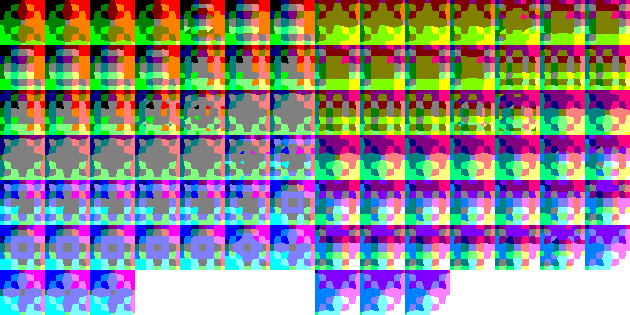
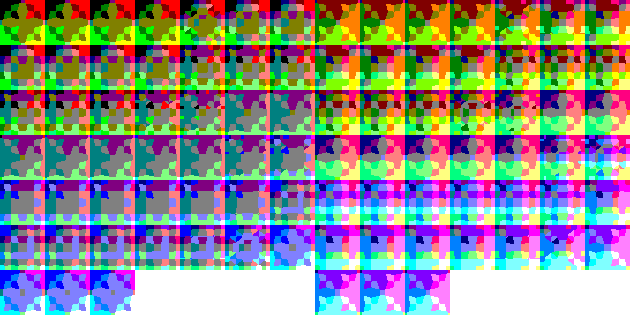
3x3x3: use darker colors - namely, my terminal colors.

diff --git a/internal/palette/data.go b/internal/palette/data.go
@@ -930,24 +930,24 @@ var data = map[string]*Palette{
 	// Dither everywhere.
 	"2x2x2": newPalette([]int{0, 9, 10, 11, 12, 13, 14, 15}, colorCube(2, 2, 2)),
 
-	// 3x3x3 color cube, preferring brighter colors.
+	// 3x3x3 color cube, almost a superset of div0.
 	// Almost no dither.
 	// Lacks light grey as only color.
 	"3x3x3": newPalette([]int{0, 1, 2, 3, 4, 5, 6, 8, 9, 10, 11, 12, 13, 14, 15}, append([]uint32{
 		0x000000,
 		0x0000FF,
 		0x00FF00,
-		0x00FFFF,
+		0x008080,
 		0xFF0000,
-		0xFF00FF,
-		0xFF8000, // Brown!
+		0x800080,
+		0x808000,
 		0x808080,
 		0x8080FF,
 		0x80FF80,
-		0x80FFFF,
+		0x00FFFF,
 		0xFF8080,
-		0xFF80FF,
-		0xFFFF80,
+		0xFF00FF,
+		0xFFFF00,
 		0xFFFFFF,
 	}, colorCube(3, 3, 3)...)),
 
